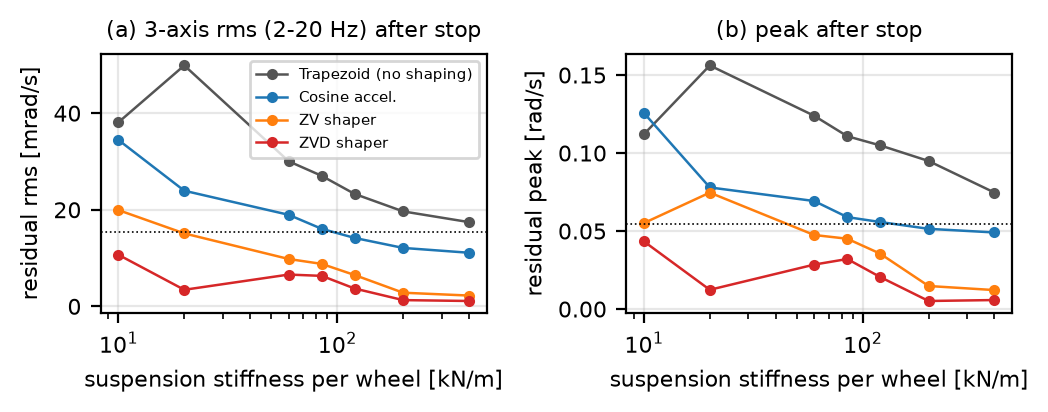
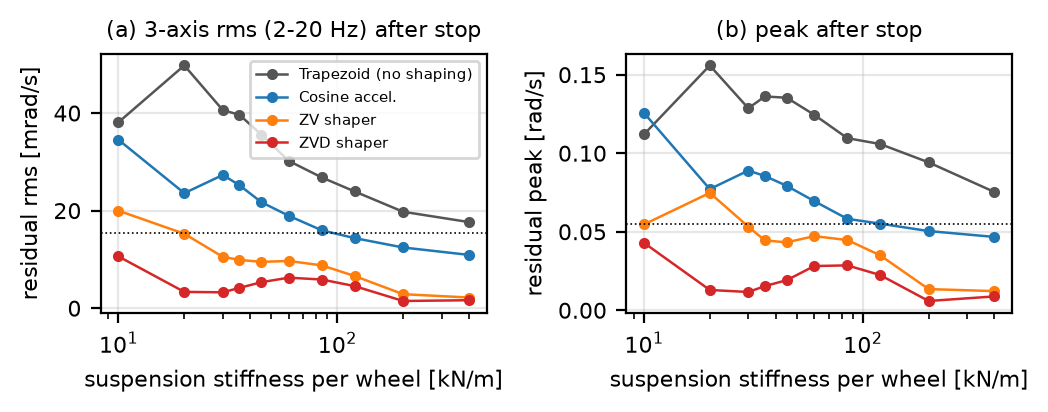
vib_sim: AMR 시작 높이 버그 수정(튀어 올라 틀어지던 것), 타이어 탄성·패인 바닥·성분별 뒷바퀴 예측, 서스펜션·턱 결과 재실행

diff --git a/vib_sim/view_bump.py b/vib_sim/view_bump.py
@@ -19,11 +19,12 @@ from pxr import Gf, UsdGeom, UsdPhysics, UsdLux
 
 ap = argparse.ArgumentParser()
 ap.add_argument("--case", default="ff10+damp10p"); ap.add_argument("--v", type=float, default=0.3); ap.add_argument("--h", type=float, default=0.01)
-ap.add_argument("--susp-k", type=float, default=120000.0); ap.add_argument("--susp-c", type=float, default=623.0)
+ap.add_argument("--susp-k", type=float, default=0.0); ap.add_argument("--susp-c", type=float, default=0.0)
+ap.add_argument("--tire-k", type=float, default=150000.0); ap.add_argument("--tire-c", type=float, default=1000.0)
 ap.add_argument("--slow", type=float, default=1.0); ap.add_argument("--only", action="store_true")
 ap.add_argument("--loops", type=int, default=0); ap.add_argument("--shot", default="")
 a = ap.parse_args()
-sim = VibSim(base="ranger", susp_k=a.susp_k, susp_c=a.susp_c, verbose=False)
+sim = VibSim(base="ranger", susp_k=a.susp_k, susp_c=a.susp_c, tire_k=a.tire_k, tire_c=a.tire_c, verbose=False)
 XB, LWB, DT, NB = 0.75, 0.494, sim.dt, 200
 cube = UsdGeom.Cube.Define(sim.stage, "/World/bump"); cube.CreateSizeAttr(1.0); cube.CreateDisplayColorAttr([Gf.Vec3f(0.9, 0.25, 0.1)])
 x = UsdGeom.Xformable(cube); x.AddTranslateOp().Set(Gf.Vec3d(XB, 0.0, 0.0)); x.AddScaleOp().Set(Gf.Vec3f(0.03, 2.0, 2 * a.h))
@@ -62,7 +63,8 @@ def run(case, first):
             af = af + al * (a6 - af); abuf.append(af.copy()); abuf.pop(0)
             g_now = sim.ee_gyro(); gf = gf + al * (g_now - gf); gbuf.append(gf.copy()); gbuf.pop(0)
             dq = np.zeros(6)
-            if t_f is None and t[i] > 0.6 and abs(af[2]) > 1.5:
+            pb_ = np.asarray(sim.bb.get_world_poses()[0])[0][0]
+            if t_f is None and pb_ + LWB / 2 >= XB - 0.06:
                 t_f = t[i]; rec = [b.copy() for b in abuf[-30:]]; i_rear = i + int(round(LWB / a.v / DT)) - 30
             elif t_f is not None and len(rec) < 700:
                 rec.append(af.copy())

diff --git a/vib_sim/vibsim.py b/vib_sim/vibsim.py
@@ -44,6 +44,7 @@ GRIP_JOINTS = ["joint7", "joint8"]
 STEER_JOINTS = ["fl_steering_joint", "fr_steering_joint", "rl_steering_joint", "rr_steering_joint"]
 DRIVE_JOINTS = ["fl_wheel_joint", "fr_wheel_joint", "rl_wheel_joint", "rr_wheel_joint"]
 WHEEL_R = 0.100
+RANGER_REST_Z = 0.280   # 바퀴가 바닥에 닿을 때의 base_link 높이(가라앉은 값 0.277) + 3 mm
 ARM_BASE_LOCAL = (-0.01858, 0.02232, 0.04462)  # Ranger 상판 기준 팔 베이스 위치(step22_common과 같은 값)
 ARM_BASE_YAW_DEG = 90.0  # 실물 장착 방향(step22_common과 같음): 팔 앞이 AMR의 옆(+y). 0이면 팔 앞 = AMR 진행 방향
 CAM_POS_L6 = (-0.0115, 0.0731, 0.05)  # 손목 카메라 위치(link6 기준, step22_common EIH_MOUNT_POS)
@@ -120,8 +121,10 @@ class VibSim:
         else:
             root = "/World/Ranger"
             add_reference_to_stage(usd_path=RANGER_USD, prim_path=root)
-            if z0 != 0.0:
-                UsdGeom.XformCommonAPI(st.GetPrimAtPath(root)).SetTranslate(Gf.Vec3d(0, 0, z0))
+            # 바퀴가 바닥에 닿는 높이에서 시작한다. 예전에는 0에 놓아 바퀴가 바닥에 묻힌 채 시작했고,
+            # 그 반발로 차체가 0.3–0.6 m 튀어 오른 뒤(서스펜션이 있으면 18.7° 틀어져) 내려앉았다(2026-11-22 다한이 화면에서 발견).
+            z0 = z0 + RANGER_REST_Z
+            UsdGeom.XformCommonAPI(st.GetPrimAtPath(root)).SetTranslate(Gf.Vec3d(0, 0, z0))
             ABL = (ARM_BASE_LOCAL[0] + mount_x, ARM_BASE_LOCAL[1], ARM_BASE_LOCAL[2])
             rb = _find(st, root, "base_link", UsdPhysics.RigidBodyAPI)
             for p in Usd.PrimRange(st.GetPrimAtPath("/World/piper")):

diff --git a/vib_sim/diag_yaw.py b/vib_sim/diag_yaw.py
@@ -1,0 +1,21 @@
+"""진단: 시작할 때 차체가 얼마나 튀고 방향이 얼마나 틀어지는지, 직진 중에 얼마나 더 틀어지는지."""
+import math, sys
+import numpy as np
+from vibsim import POSE_A, WHEEL_R, VibSim
+susp = float(sys.argv[1]) if len(sys.argv) > 1 else 120000.0
+tire = float(sys.argv[2]) if len(sys.argv) > 2 else 0.0
+sim = VibSim(base="ranger", susp_k=susp, susp_c=623.0 if susp > 0 else 0.0, tire_k=tire, tire_c=float(sys.argv[3]) if len(sys.argv) > 3 else 0.0, verbose=False)
+def pose():
+    p, q = sim.bb.get_world_poses(); p = np.asarray(p)[0]; w, x, y, z = np.asarray(q)[0]
+    return p, math.degrees(math.atan2(2 * (w * z + x * y), 1 - 2 * (y * y + z * z))), math.degrees(math.asin(max(-1, min(1, 2 * (w * y - z * x)))))
+sim.world.reset(); sim._apply_gains(); sim.set_state(POSE_A)
+p0, y0, _ = pose(); zmax = p0[2]; print("서스펜션", susp, "타이어", tire, "| 시작 직후 base z %.4f yaw %.3f" % (p0[2], y0))
+for i in range(2500):
+    sim.step(POSE_A, np.zeros(6), wheel_w=np.zeros(4), steer=np.zeros(4)); p, y, _ = pose(); zmax = max(zmax, p[2])
+    if i in (50, 200, 600, 2499): print("  %4d ms: z %.4f (최고 %.4f) x %.4f y %.4f yaw %.3f°" % (i + 1, p[2], zmax, p[0], p[1], y))
+ps = p.copy()
+for i in range(5000):
+    vc = min(0.3, 1.0 * max(0.0, i * 0.001 - 0.1))
+    sim.step(POSE_A, np.zeros(6), wheel_w=np.full(4, vc / WHEEL_R), steer=np.zeros(4))
+    if i in (1499, 2999, 4999): p, y, _ = pose(); print("  직진 %.1f s: x %.3f y %.4f yaw %.3f°  (턱 길이 방향으로 좌우 바퀴 어긋남 %.1f mm)" % ((i + 1) / 1000, p[0] - ps[0], p[1] - ps[1], y, 364 * math.tan(math.radians(abs(y)))))
+sim.close()

diff --git a/vib_sim/make_figs.py b/vib_sim/make_figs.py
@@ -130,7 +130,6 @@ for k in kss:
 ss_ = []
 for p in sorted(glob.glob(O + "/exp2_susp*.csv")):
     ss_ += rd(p)
-ss_ = [r for r in ss_ if not 30000 <= r["susp_k"] <= 45000]   # 이 구간은 등속 중에도 차체가 스스로 흔들리는 불안정이 나와 뺀다(아래 주)
 if ss_:
     ks = sorted({r["susp_k"] for r in ss_})
     fig, ax = plt.subplots(1, 2, figsize=(5.2, 2.1))
@@ -144,7 +143,6 @@ if ss_:
     fig.tight_layout(); fig.savefig(F + "/fig_susp.png"); plt.close(fig)
     md.append("\n## 3. 서스펜션 민감도 — 실물 장착 방향 (바퀴마다 상하 스프링·댐퍼, 감쇠는 강성의 제곱근에 비례)\n")
     md.append("실물 Ranger Mini의 서스펜션·타이어 값은 모른다. '강체 대비'는 2절 값 대비.\n")
-    md.append("바퀴당 30–45 kN/m에서는 등속 중에도 차체가 스스로 흔들리고(끝단 비틀림 약 1 rad/s) 이동 거리가 1.0 m가 아니라 0.87 m로 나온다. 바퀴 속도 구동 모형과 서스펜션이 맞물린 불안정으로 보이며 실물의 성질인지는 모른다. 표와 그림에서 뺐다.\n")
     md.append("| 강성 [kN/m] | 섀시 끄덕임 봉우리 [Hz] | 대책 없음 rms (강체 대비) | 축별(비틀림 / 끄덕임 / 좌우) | 최대 (강체 대비) | scurve 비 | zv 비 | zvd 비 |\n|---|---|---|---|---|---|---|---|")
     for k in ks:
         g = {r["case"]: r for r in ss_ if r["susp_k"] == k}

diff --git a/vib_sim/figs/summary.md b/vib_sim/figs/summary.md
@@ -66,17 +66,18 @@
 
 실물 Ranger Mini의 서스펜션·타이어 값은 모른다. '강체 대비'는 2절 값 대비.
 
-바퀴당 30–45 kN/m에서는 등속 중에도 차체가 스스로 흔들리고(끝단 비틀림 약 1 rad/s) 이동 거리가 1.0 m가 아니라 0.87 m로 나온다. 바퀴 속도 구동 모형과 서스펜션이 맞물린 불안정으로 보이며 실물의 성질인지는 모른다. 표와 그림에서 뺐다.
-
 | 강성 [kN/m] | 섀시 끄덕임 봉우리 [Hz] | 대책 없음 rms (강체 대비) | 축별(비틀림 / 끄덕임 / 좌우) | 최대 (강체 대비) | scurve 비 | zv 비 | zvd 비 |
 |---|---|---|---|---|---|---|---|
-| 10 | 2.5 | 0.03811 (2.5배) | 0.0263 / 0.0026 / 0.0275 | 0.112 (2.0배) | 0.90 | 0.52 | 0.28 |
-| 20 | 3.2 | 0.04988 (3.2배) | 0.0202 / 0.0031 / 0.0455 | 0.156 (2.9배) | 0.48 | 0.30 | 0.07 |
-| 60 | 6.7 | 0.03004 (1.9배) | 0.0074 / 0.0041 / 0.0288 | 0.124 (2.3배) | 0.63 | 0.33 | 0.22 |
-| 85 | 7.0 | 0.02701 (1.7배) | 0.0065 / 0.0036 / 0.0260 | 0.111 (2.0배) | 0.59 | 0.33 | 0.23 |
-| 120 | 8.6 | 0.02328 (1.5배) | 0.0048 / 0.0032 / 0.0226 | 0.105 (1.9배) | 0.61 | 0.28 | 0.16 |
-| 200 | 10.7 | 0.01966 (1.3배) | 0.0032 / 0.0025 / 0.0192 | 0.095 (1.7배) | 0.62 | 0.14 | 0.07 |
-| 400 | 14.6 | 0.01744 (1.1배) | 0.0019 / 0.0019 / 0.0172 | 0.075 (1.4배) | 0.64 | 0.13 | 0.06 |
+| 10 | 2.5 | 0.03810 (2.5배) | 0.0263 / 0.0014 / 0.0275 | 0.112 (2.0배) | 0.91 | 0.52 | 0.28 |
+| 20 | 3.2 | 0.04976 (3.2배) | 0.0202 / 0.0027 / 0.0454 | 0.156 (2.8배) | 0.47 | 0.31 | 0.07 |
+| 30 | 3.4 | 0.04060 (2.6배) | 0.0121 / 0.0032 / 0.0386 | 0.129 (2.4배) | 0.67 | 0.26 | 0.08 |
+| 35.7 | 5.0 | 0.03965 (2.6배) | 0.0105 / 0.0036 / 0.0381 | 0.136 (2.5배) | 0.64 | 0.25 | 0.10 |
+| 45 | 5.2 | 0.03559 (2.3배) | 0.0086 / 0.0039 / 0.0343 | 0.135 (2.5배) | 0.61 | 0.27 | 0.15 |
+| 60 | 6.6 | 0.03020 (2.0배) | 0.0071 / 0.0042 / 0.0290 | 0.124 (2.3배) | 0.63 | 0.32 | 0.21 |
+| 85 | 7.1 | 0.02680 (1.7배) | 0.0059 / 0.0044 / 0.0258 | 0.110 (2.0배) | 0.60 | 0.33 | 0.22 |
+| 120 | 8.8 | 0.02394 (1.5배) | 0.0047 / 0.0037 / 0.0232 | 0.106 (1.9배) | 0.60 | 0.28 | 0.19 |
+| 200 | 10.9 | 0.01977 (1.3배) | 0.0032 / 0.0023 / 0.0194 | 0.094 (1.7배) | 0.63 | 0.15 | 0.07 |
+| 400 | 14.7 | 0.01765 (1.1배) | 0.0018 / 0.0019 / 0.0174 | 0.075 (1.4배) | 0.62 | 0.12 | 0.09 |
 
 ## 4. 참고 — 가감속이 팔의 끄덕임 평면으로 들어올 때 (장착 0°, 실물에서는 AMR이 옆으로 움직이는 경우에 해당)
 

diff --git a/vib_sim/README.md b/vib_sim/README.md
@@ -52,6 +52,10 @@ python3 fit_servo.py                            # 서보 모형을 실측 명령
 
 `figs/summary.md`(표), `figs/fig_valid.png`, `figs/fig_amr.png`, `figs/fig_susp.png`. 정리와 "쓸 수 있는 말"은 볼트 노트 `PiPER 진동 Isaac Sim 모형과 결과.md`.
 
+## 고친 버그 (2026-11-22 밤)
+
+AMR을 바퀴가 바닥에 묻힌 높이(z = 0)에 놓고 시작해서 차체가 0.3–0.6 m 튀어 올랐고, 서스펜션을 넣은 장면에서는 18.7° 틀어진 채 달렸다. `RANGER_REST_Z`로 고쳤다. 그 전의 서스펜션·턱 넘기·타이어 탄성 결과는 `out/yawbug`에 있고 쓰지 않는다. "타이어 접촉 강성은 발산한다", "서스펜션 30–45 kN/m는 불안정하다"는 둘 다 이 버그의 결과였다.
+
 ## 모형에 없는 것
 
 - 엔코더가 끝단 진동의 약 2할을 보는 것(모터 쪽이 반력에 밀리지 않는다), 백래시, 마찰, 토크 분해능, MIT 모드와 순간 튐.
@@ -59,6 +63,5 @@ python3 fit_servo.py                            # 서보 모형을 실측 명령
 - 15 °/s에서 실측 진동이 더 커지지 않는 것(시뮬레이션은 속도에 비례).
 - 실물 Ranger Mini의 서스펜션·타이어 특성, 바닥 요철.
 - 요 자이로에 보이는 자세 A 7.7–7.9 Hz 성분, J1 서보 강성과 구조 탄성의 구분(지금은 한 스프링).
-- 서스펜션 바퀴당 30–45 kN/m에서 차체가 스스로 흔들리는 불안정이 나온다(바퀴 속도 구동 모형 문제로 추정). 그 구간 결과는 쓰지 않는다.
 - 이전 실행: `out/lat11hz`·`figs/lat11hz`는 좌우 모드를 11.4 Hz로 잘못 둔 결과, `out/yaw0`·`figs/yaw0`는 팔을 진행 방향으로 장착한 결과.
-- 타이어 탄성을 접촉 강성(compliant contact)으로 넣는 방식은 차체가 튕겨 나가 버렸다. `--tire-k`는 쓰지 말 것.
+- 타이어 탄성은 접촉 강성으로 넣는다(`tire_k`, 턱 실험 기본 150 kN/m). 실물 값은 모른다.
